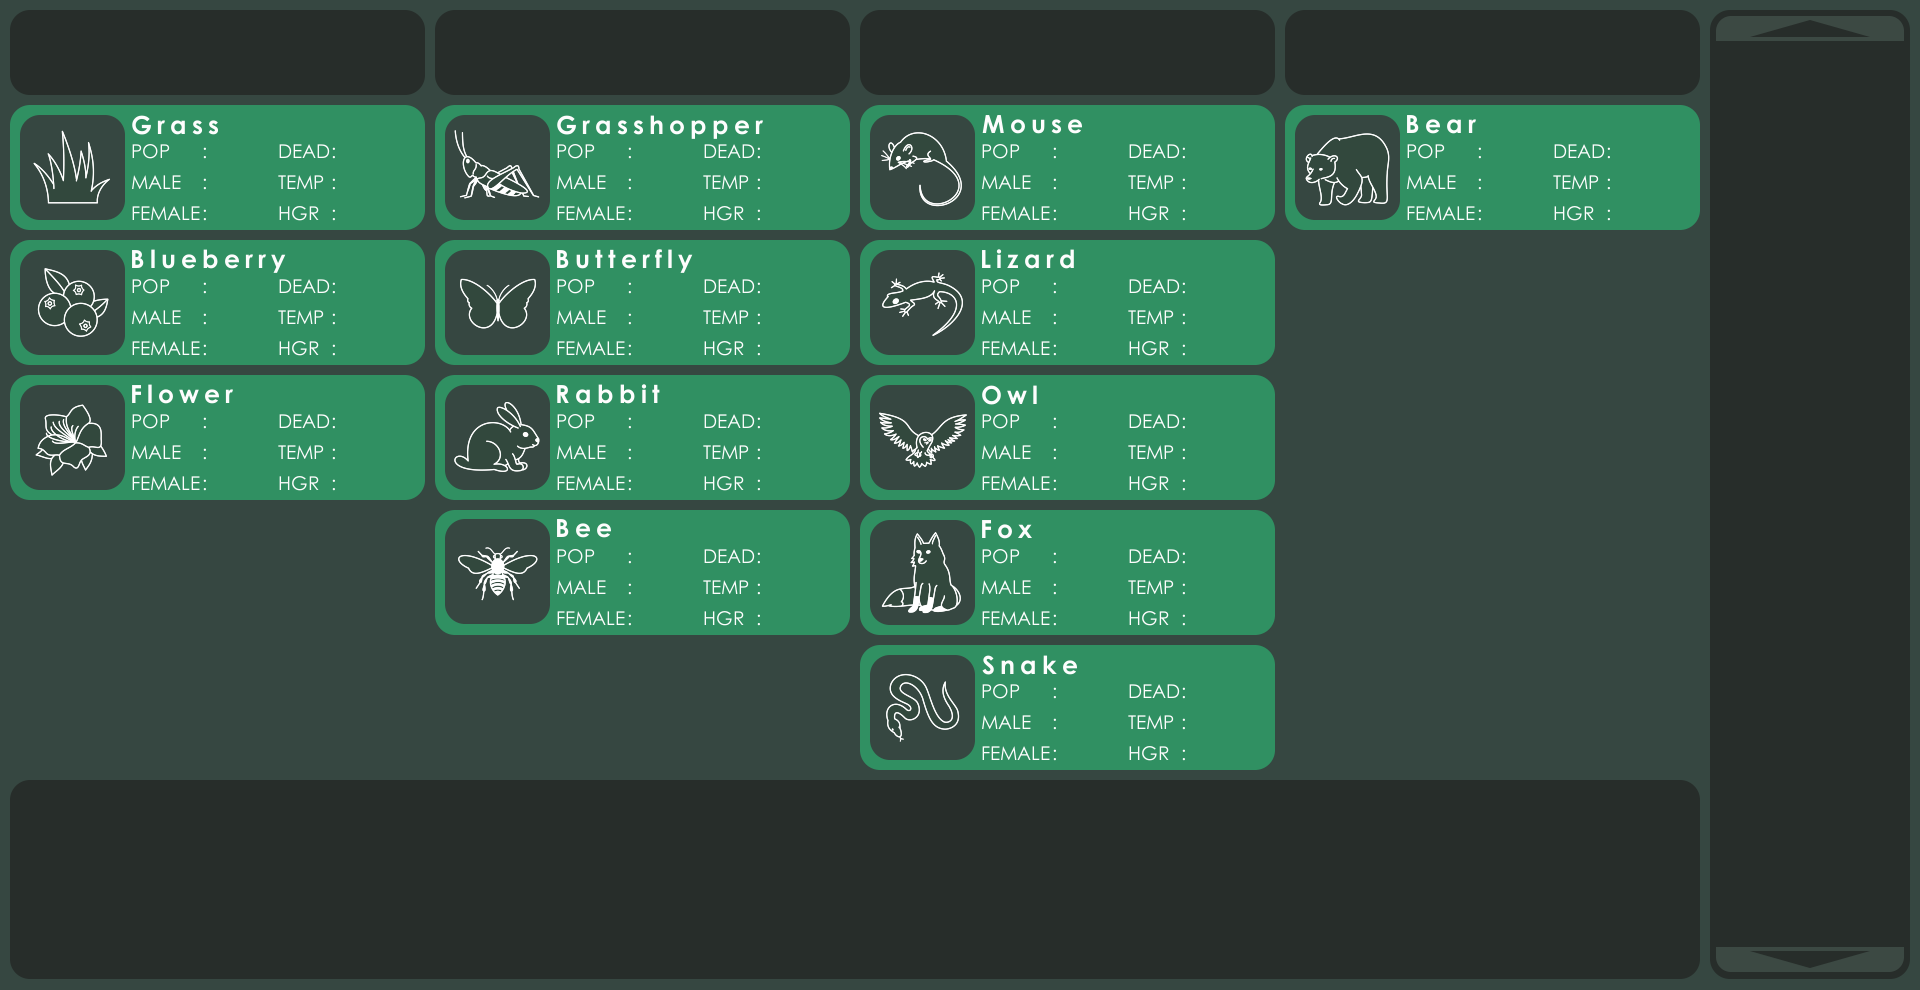
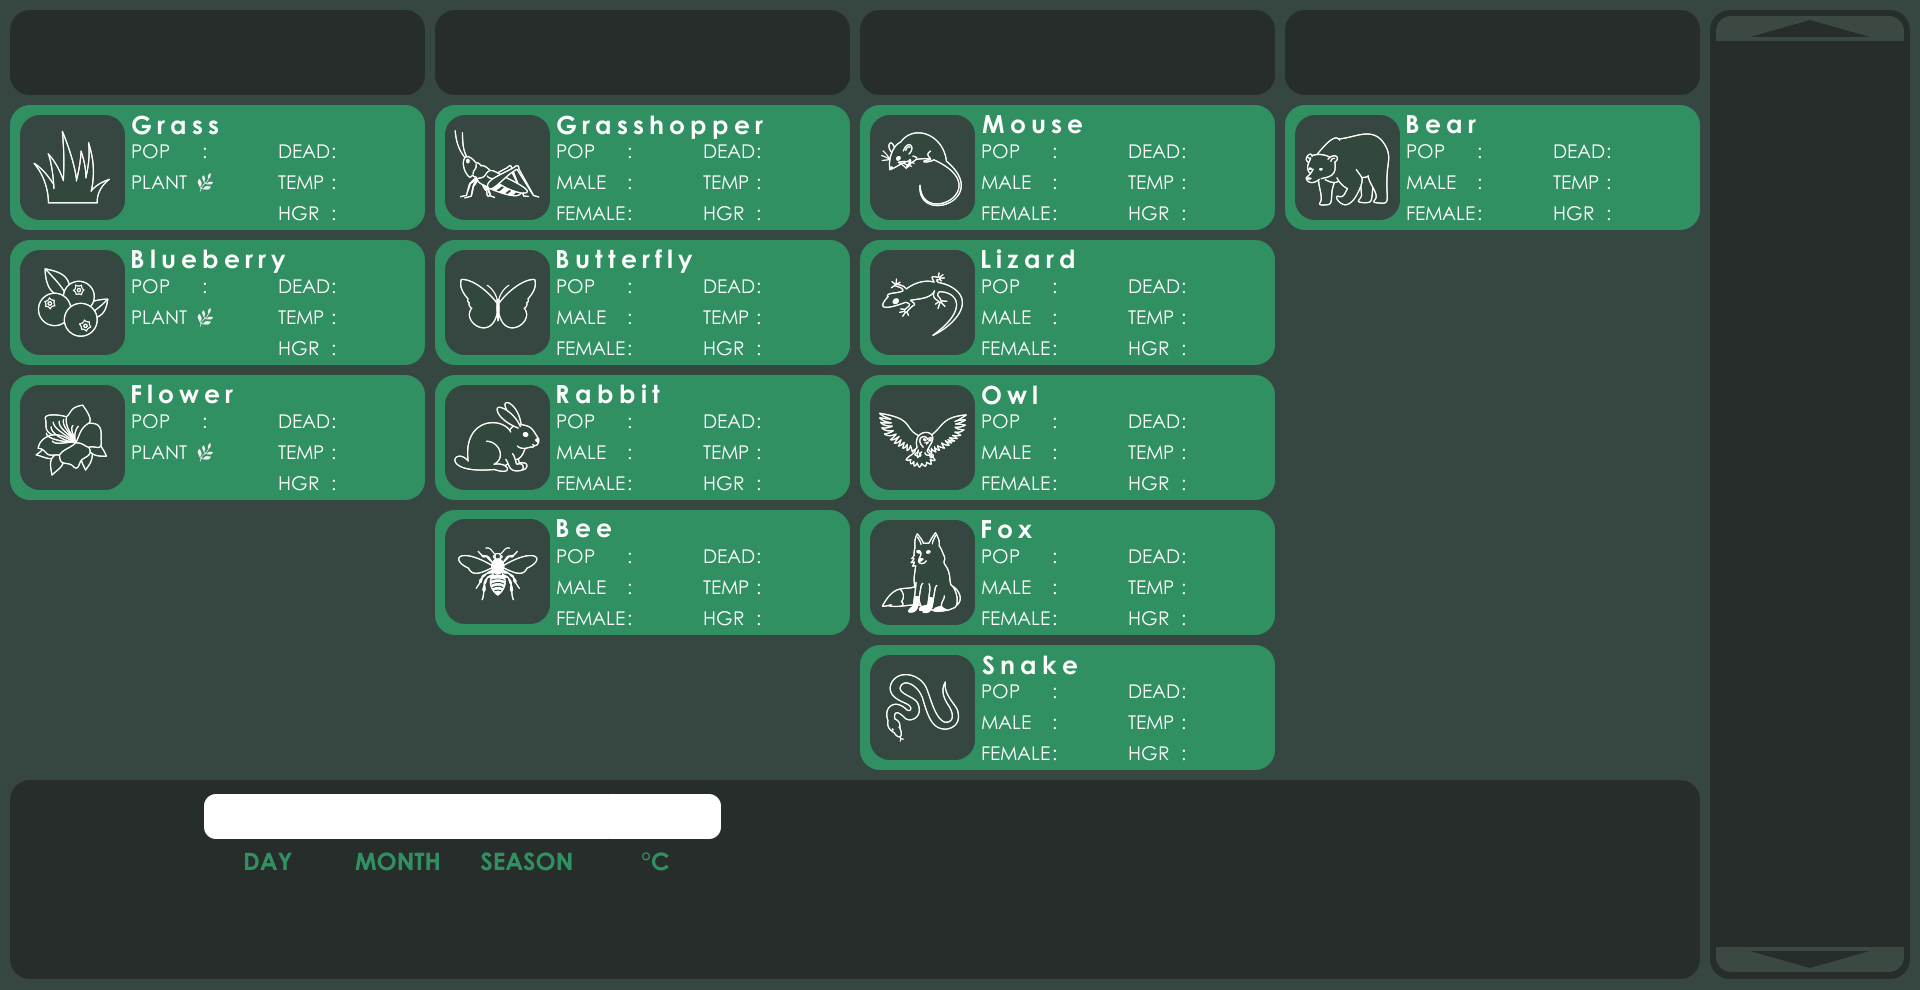
Update simulation screen

diff --git a/project-biology/project-biology/front-end.cpp b/project-biology/project-biology/front-end.cpp
@@ -40,7 +40,7 @@ std::string giveTimeText()
 
     fileTime.close();
 
-    std::string timeText = std::to_string(days) + "-" + month + "-" + season + "-" + std::to_string(temp);
+    std::string timeText = std::to_string(days) + " " + month + " " + season + " " + std::to_string(temp);
 
     return timeText;
 }
@@ -54,7 +54,7 @@ void updateScreen(tgui::BackendGui& gui, bool& start)
         tgui::Theme menuTheme{ "../src/theme-menu.txt" };
 
         auto label = tgui::Label::create();
-        label->setPosition({ "10.25%", "81.84%" });
+        label->setPosition({ "10.62%", "79.89%" });
         label->setText(giveTimeText());
         label->setRenderer(menuTheme.getRenderer("LabelTime"));
         label->setTextSize(16);
